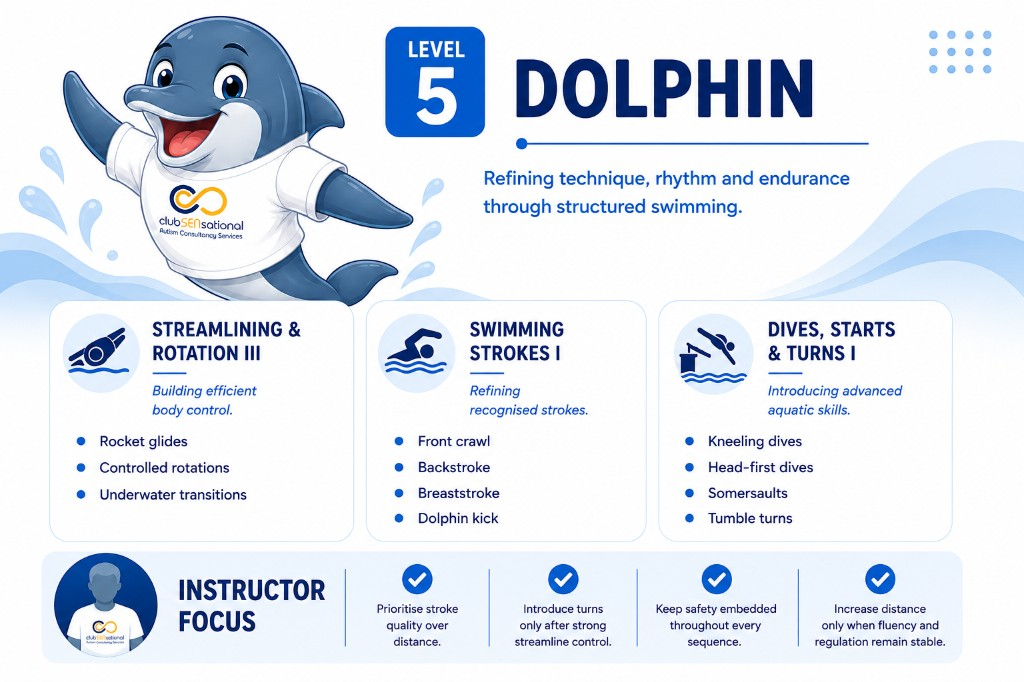
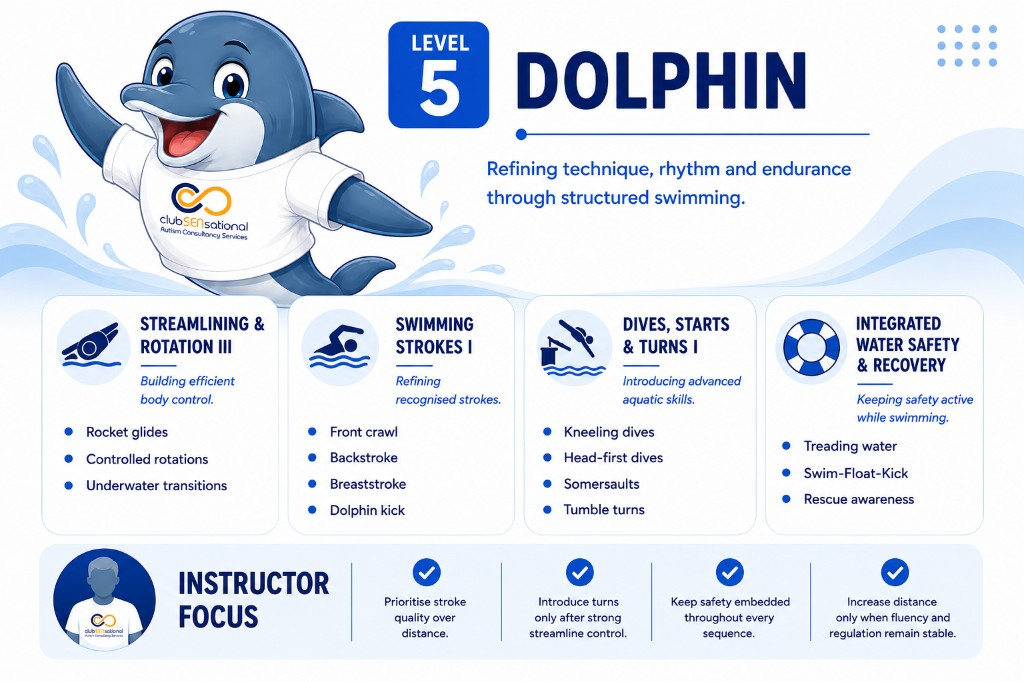
Refine stage cards and correct Dolphin infographic

diff --git a/training-i/modules/module-4/index.html b/training-i/modules/module-4/index.html
@@ -4616,6 +4616,206 @@
  }
  .concept-panel[data-stage-theme="core"] .stage-intro-card-title{ color:#8a3fb0; }
 
+/* Premium stage-learning cards */
+.concept-panel[data-stage-theme="confidence"]{ --stage-accent:#1a5c38; --stage-rgb:26,92,56; }
+.concept-panel[data-stage-theme="basic"]{ --stage-accent:#c97816; --stage-rgb:201,120,22; }
+.concept-panel[data-stage-theme="structured"]{ --stage-accent:#356995; --stage-rgb:53,105,149; }
+.concept-panel[data-stage-theme="core"]{ --stage-accent:#8a3fb0; --stage-rgb:138,63,176; }
+.stage-intro-cards-hint{
+ width:max-content;
+ max-width:100%;
+ margin:0 auto 18px;
+ padding:8px 14px 8px 34px;
+ position:relative;
+ border:1px solid rgba(var(--stage-rgb,53,105,149),.14);
+ border-radius:999px;
+ background:rgba(var(--stage-rgb,53,105,149),.055);
+ color:rgba(18,50,71,.76);
+ font-size:.78rem;
+ font-weight:650;
+ letter-spacing:.01em;
+}
+.stage-intro-cards-hint::before{
+ content:'';
+ position:absolute;
+ left:13px;
+ top:50%;
+ width:12px;
+ height:12px;
+ border:2px solid var(--stage-accent,#356995);
+ border-radius:50%;
+ transform:translateY(-50%);
+ box-shadow:inset 0 0 0 3px #fff;
+ background:var(--stage-accent,#356995);
+}
+.stage-intro-cards{
+ gap:18px;
+ counter-reset:stage-card;
+}
+.stage-intro-card{
+ counter-increment:stage-card;
+ isolation:isolate;
+ overflow:hidden;
+ min-height:100%;
+ padding:24px 22px 22px;
+ border:1px solid rgba(var(--stage-rgb,53,105,149),.16) !important;
+ border-radius:20px;
+ background:
+  radial-gradient(circle at 100% 0%,rgba(var(--stage-rgb,53,105,149),.11),transparent 36%),
+  linear-gradient(155deg,#fff 0%,#fff 72%,rgba(var(--stage-rgb,53,105,149),.04) 100%) !important;
+ box-shadow:
+  0 18px 44px rgba(18,50,71,.09),
+  0 2px 8px rgba(18,50,71,.035),
+  inset 0 1px 0 rgba(255,255,255,.9);
+ text-align:left;
+}
+.stage-intro-card::before{
+ content:'0' counter(stage-card);
+ position:absolute;
+ z-index:-1;
+ top:14px;
+ right:18px;
+ color:rgba(var(--stage-rgb,53,105,149),.075);
+ font-size:2.7rem;
+ font-weight:900;
+ line-height:1;
+ letter-spacing:-.06em;
+}
+.stage-intro-card::after{
+ content:'';
+ position:absolute;
+ inset:0 auto 0 0;
+ width:4px;
+ background:linear-gradient(180deg,var(--stage-accent,#356995),rgba(var(--stage-rgb,53,105,149),.25));
+}
+.stage-intro-card:hover{
+ transform:translateY(-5px);
+ border-color:rgba(var(--stage-rgb,53,105,149),.34) !important;
+ box-shadow:
+  0 24px 52px rgba(18,50,71,.14),
+  0 5px 14px rgba(var(--stage-rgb,53,105,149),.08);
+}
+.stage-intro-card-head{
+ flex-direction:row;
+ justify-content:flex-start;
+ gap:13px;
+ margin:0 0 18px;
+ padding:0 38px 16px 0;
+ border-bottom:1px solid rgba(var(--stage-rgb,53,105,149),.12);
+ text-align:left;
+}
+.stage-intro-card-icon{
+ position:relative;
+ width:48px;
+ height:48px;
+ padding:0;
+ border:1px solid rgba(var(--stage-rgb,53,105,149),.16);
+ border-radius:15px;
+ background:linear-gradient(145deg,#fff,rgba(var(--stage-rgb,53,105,149),.12));
+ box-shadow:0 8px 18px rgba(var(--stage-rgb,53,105,149),.12);
+ -webkit-mask-image:none !important;
+ mask-image:none !important;
+ opacity:1;
+}
+.stage-intro-card-icon::before{
+ content:'';
+ position:absolute;
+ inset:10px;
+ background:var(--stage-accent,#356995);
+ -webkit-mask-repeat:no-repeat;
+ mask-repeat:no-repeat;
+ -webkit-mask-position:center;
+ mask-position:center;
+ -webkit-mask-size:contain;
+ mask-size:contain;
+}
+.stage-intro-card-icon--looks::before{
+ -webkit-mask-image:url('/assets/images/module-4/stage-icons/looks-eye.png');
+ mask-image:url('/assets/images/module-4/stage-icons/looks-eye.png');
+}
+.stage-intro-card-icon--priorities::before{
+ -webkit-mask-image:url('/assets/images/module-4/stage-icons/priorities-target.png');
+ mask-image:url('/assets/images/module-4/stage-icons/priorities-target.png');
+}
+.stage-intro-card-icon--goal::before{
+ -webkit-mask-image:url('/assets/images/module-4/stage-icons/goal-flag.png');
+ mask-image:url('/assets/images/module-4/stage-icons/goal-flag.png');
+}
+.stage-intro-card-title{
+ max-width:150px;
+ color:var(--stage-accent,#356995) !important;
+ font-size:.8rem;
+ font-weight:850;
+ letter-spacing:.075em;
+ line-height:1.25;
+ text-align:left;
+}
+.stage-intro-card-body{
+ color:#263b4c;
+ font-size:.88rem;
+ line-height:1.58;
+}
+.stage-intro-card-body ul{
+ display:grid;
+ gap:9px;
+ margin:0;
+ padding:0;
+ list-style:none;
+}
+.stage-intro-card-body li{
+ position:relative;
+ margin:0;
+ padding-left:18px;
+}
+.stage-intro-card-body li::before{
+ content:'';
+ position:absolute;
+ top:.62em;
+ left:1px;
+ width:6px;
+ height:6px;
+ border-radius:50%;
+ background:var(--stage-accent,#356995);
+ box-shadow:0 0 0 4px rgba(var(--stage-rgb,53,105,149),.10);
+}
+.stage-intro-card[data-stage-card="goal"] .stage-intro-card-body{
+ padding:3px 0 3px 15px;
+ border-left:2px solid rgba(var(--stage-rgb,53,105,149),.28);
+ color:#19364b;
+ font-size:1rem;
+ font-weight:620;
+ line-height:1.55;
+}
+.stage-intro-card-check{
+ top:16px;
+ right:16px;
+ width:25px;
+ height:25px;
+ border:2px solid rgba(var(--stage-rgb,53,105,149),.18);
+ color:transparent;
+ background:#fff;
+ box-shadow:0 4px 10px rgba(18,50,71,.08);
+}
+.stage-intro-card.is-complete{
+ border-color:rgba(var(--stage-rgb,53,105,149),.5) !important;
+ background:
+  radial-gradient(circle at 100% 0%,rgba(var(--stage-rgb,53,105,149),.16),transparent 36%),
+  linear-gradient(155deg,#fff 0%,rgba(var(--stage-rgb,53,105,149),.065) 100%) !important;
+ box-shadow:
+  0 0 0 3px rgba(var(--stage-rgb,53,105,149),.10),
+  0 20px 44px rgba(18,50,71,.11) !important;
+}
+.stage-intro-card.is-complete .stage-intro-card-check{
+ border-color:var(--stage-accent,#356995);
+ color:#fff;
+ background:var(--stage-accent,#356995) !important;
+}
+@media (max-width:819px){
+ .stage-intro-cards{ gap:14px; }
+ .stage-intro-card{ padding:20px 18px 19px; }
+ .stage-intro-card-head{ margin-bottom:15px; padding-bottom:14px; }
+}
+
  .concept-panel.show{
  display:flex;
  flex-direction:column;
@@ -8302,7 +8502,7 @@ introMediaHTML: '<div class="concept-image b2-level-overview-visual"><img src="/
  'Increase sequence length only while fluency and self-regulation stay stable.',
  'In practice: If stroke quality drops mid-sequence, shorten the set and reset body position before adding length again.',
  ],
-introMediaHTML: '<div class="concept-image b2-level-overview-visual"><img src="/assets/images/module-4/levels/level-5-dolphin-overview.png?v=20260716levelvisual2" alt="Level 5 Dolphin overview: learning outcomes and instructor focus" width="1024" height="682" loading="lazy" decoding="async" /></div>',
+introMediaHTML: '<div class="concept-image b2-level-overview-visual"><img src="/assets/images/module-4/levels/level-5-dolphin-overview.png?v=20260716levelvisual3" alt="Level 5 Dolphin overview: learning outcomes and instructor focus" width="1024" height="682" loading="lazy" decoding="async" /></div>',
  imageHTML: `
  <div class="b2l1-intro-box b2l-stage--structured">
  <div class="b2l1-intro-head"><span class="b2l-intro-book" aria-hidden="true"><svg viewBox="0 0 24 24" fill="none" stroke="currentColor" stroke-width="1.65" stroke-linecap="round" stroke-linejoin="round"><path d="M2 3h8a4 4 0 0 1 4 4v14a4 4 0 0 0-4-4H2z"/><path d="M22 3h-8a4 4 0 0 0-4 4v14a4 4 0 0 1 4-4h8z"/></svg></span><span>Introduction</span></div>
